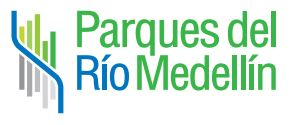
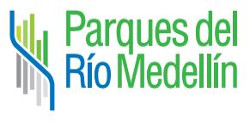
Maquetacion del header completa , primeras lineas en style.css y implementacion del menu.

diff --git a/wp-content/themes/parques/style.css b/wp-content/themes/parques/style.css
@@ -2,3 +2,16 @@
 Theme Name: Parques del Río Medellín
 Description: Plantilla para el sitio web de Parques del Río Medellín.
 */
+#main-logo a 
+{ 
+	width: 80%;
+	display: block;
+	height: auto;
+	margin: 0 auto;
+}
+
+
+#main-logo a img
+{ 
+	width: 100%;
+}

diff --git a/wp-content/themes/parques/header.php b/wp-content/themes/parques/header.php
@@ -12,31 +12,79 @@
 	<![endif]-->	
 
 	<meta name="description" content="<?php bloginfo( "description" ); ?>">
-	
+
 	<!-- estilos y js agregados se encuentran en el archivo de funciones -->
 	<?php wp_head(); ?> 
 
 </head>
 <body <?php body_class(); ?> >
 	<header>
-		<div class="main-logo">
-			<a href="<?php echo esc_url( home_url( '/' ) ); ?>" rel="home">
-				<img src="<?php echo bloginfo('template_url') .'/images/header.jpg' ?>" alt="">
-			</a>
-		</div>
-		<div class="redes-sociales"></div>
+		<div class="container-fluid">
+			<div class="row">
 
-		<nav class="collapse navbar-collapse" id="nav-bar-main">
-			<?php 
-				wp_nav_menu(
-						array(
-							'theme_location' => 'main-menu',
-							'menu_class' => 'nav-menu' 
-							)
-				); ?> 
+				<div id="main-logo" class="col-sm-9">
+					<a href="<?php echo esc_url( home_url( '/' ) ); ?>" rel="home">
+						<img src="<?php echo bloginfo('template_url') .'/images/header.jpg' ?>" alt="">
+					</a>
+				</div>
+
+				<div id="redes-sociales" class="hidden-xs col-sm-3">
+					<a class="item-social" href="#">
+						<img width="45" src="<?php echo bloginfo('template_url') .'/images/icons/32/closed32.png' ?>" >
+					</a>
+					<a class="item-social" href="#">
+						<img src="<?php echo bloginfo('template_url') .'/images/icons/32/fb32.png' ?>" >
+					</a>	
+					<a class="item-social" href="#">
+						<img src="<?php echo bloginfo('template_url') .'/images/icons/32/tw32.png' ?>">
+					</a>
+				</div>
+
+			</div>	
+		</div>
+
+		<nav id="menu-principal" class="navbar navbar-default" role="navigation">
+			 <div class="container-fluid">
+			 	<!-- Brand and toggle get grouped for better mobile display -->
+				<div class="navbar-header">
+				  <button type="button" class="navbar-toggle collapsed" data-toggle="collapse" data-target="#barra-inicio">
+				    <span class="sr-only">Toggle navigation</span>
+				    <span class="icon-bar"></span>
+				    <span class="icon-bar"></span>
+				    <span class="icon-bar"></span>
+				  </button>
+				  <span class="hidden-sm hidden-md hidden-lg navbar-brand collapsed" data-toggle="collapse" data-target="#barra-inicio" >Menú</span>
+				</div>
+
+			 	<!-- Collect the nav links, forms, and other content for toggling -->
+    			<div class="collapse navbar-collapse" id="barra-inicio">
+				 	<?php
+				 	
+						wp_nav_menu(
+									array(
+										'theme_location' => 'main-menu',
+										'menu_class' => 'nav navbar-nav' 
+										)
+									); 
+					
+					?>
+					<form id="form-search" class="navbar-form navbar-left" role="search">
+		        		<div class="form-group">
+		          			<input id="search-main-button" type="text" class="form-control" placeholder="Search">
+		        		</div>
+		        		<button type="submit" class="btn btn-default">Buscar</button>
+		        		<!-- <?php get_search_form(); ?>  --> 
+		      		</form>	
+
+				</div><!--end navbar-collapse -->
+
+			 </div><!-- end container-fluid -->
 		</nav>
 
 	</header>
+
+
+
 
 	<div class="contenido-principal">
 		<?php if ( is_home() ) :?>

diff --git a/wp-content/themes/parques/functions.php b/wp-content/themes/parques/functions.php
@@ -15,7 +15,7 @@ function parques_setup()
 	// Enable support for Post Thumbnails, and declare two sizes.
 	add_theme_support( 'post-thumbnails' );
 	set_post_thumbnail_size( 672, 372, true );
-	add_image_size( 'twentyfourteen-full-width', 1038, 576, true );
+	add_image_size( 'parques-full-width', 1038, 576, true );
 
 	// Usamos el nav_menu
 	register_nav_menu( 'main-menu', 'Menú principal' );
@@ -105,7 +105,7 @@ add_filter( 'wp_title', 'parques_wp_title', 10, 2 );
 function parques_styles()
 { 
 	// add general style
-	wp_enqueue_style( 'style', get_template_directory_uri().'style.css',array(),'3.0.2' );
+	wp_enqueue_style( 'style', get_template_directory_uri().'/style.css',array(),'3.0.2' );
 
 	// add css bootstrap
 	wp_enqueue_style( 'bootstrap-css', get_template_directory_uri().'/bootstrap-3.2.0/css/bootstrap.min.css',array(),'3.0.2' );
@@ -125,6 +125,9 @@ add_action( 'wp_enqueue_scripts', 'parques_styles' );
  **/
 function parques_scripts()
 { 
+	//add jquery
+	wp_enqueue_script('jquery','/wp-includes/js/jquery/jquery.js',false,'1.11.0',true);
+
 	//add scrips boostrap , con la opcion de cargar al final.
 	wp_enqueue_script('bootstrap.min', get_template_directory_uri().'/bootstrap-3.2.0/js/bootstrap.min.js',false,'3.2.0',true);
 } 
